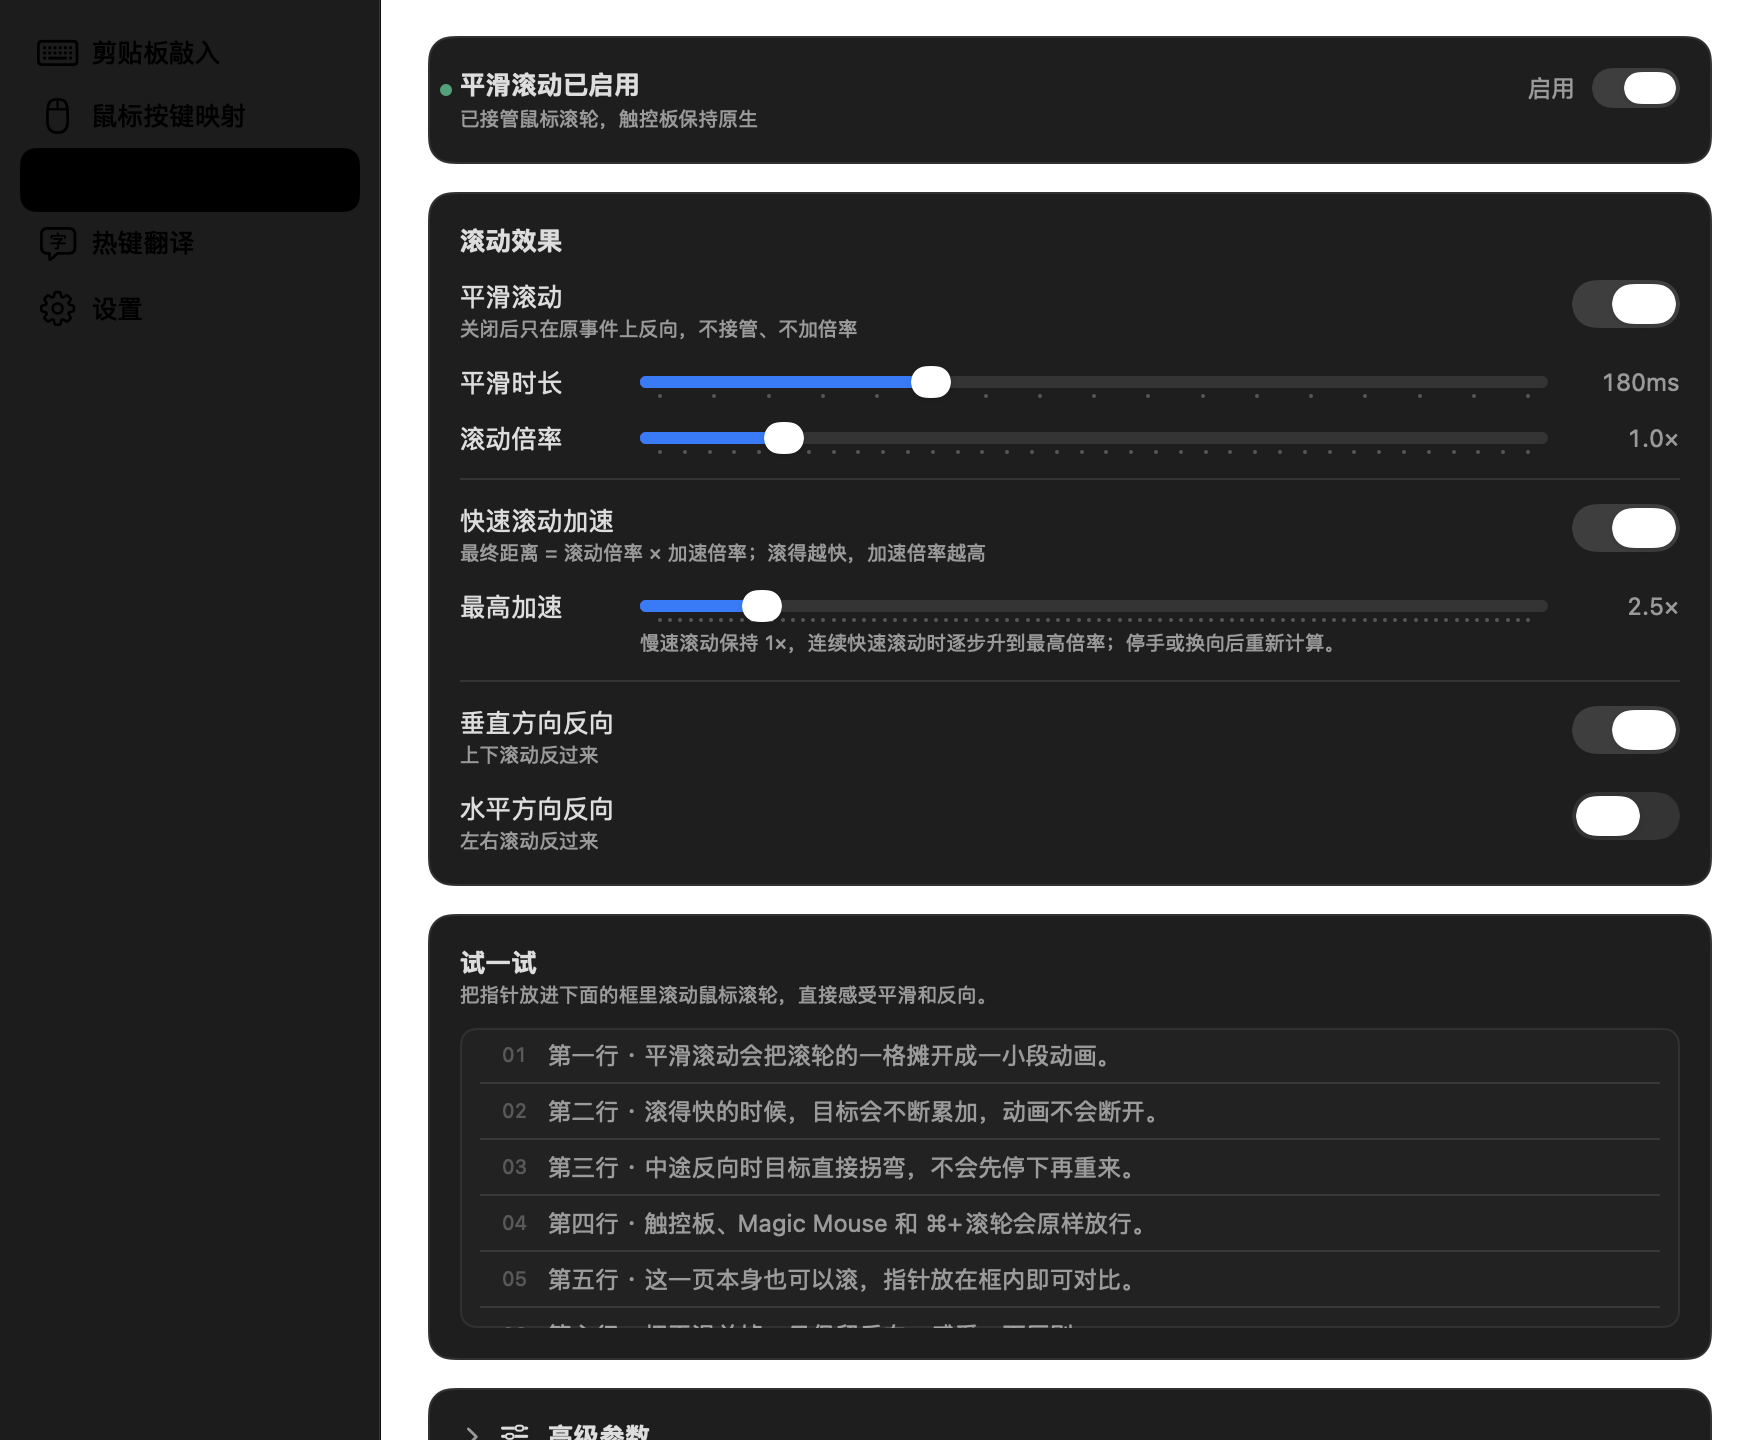
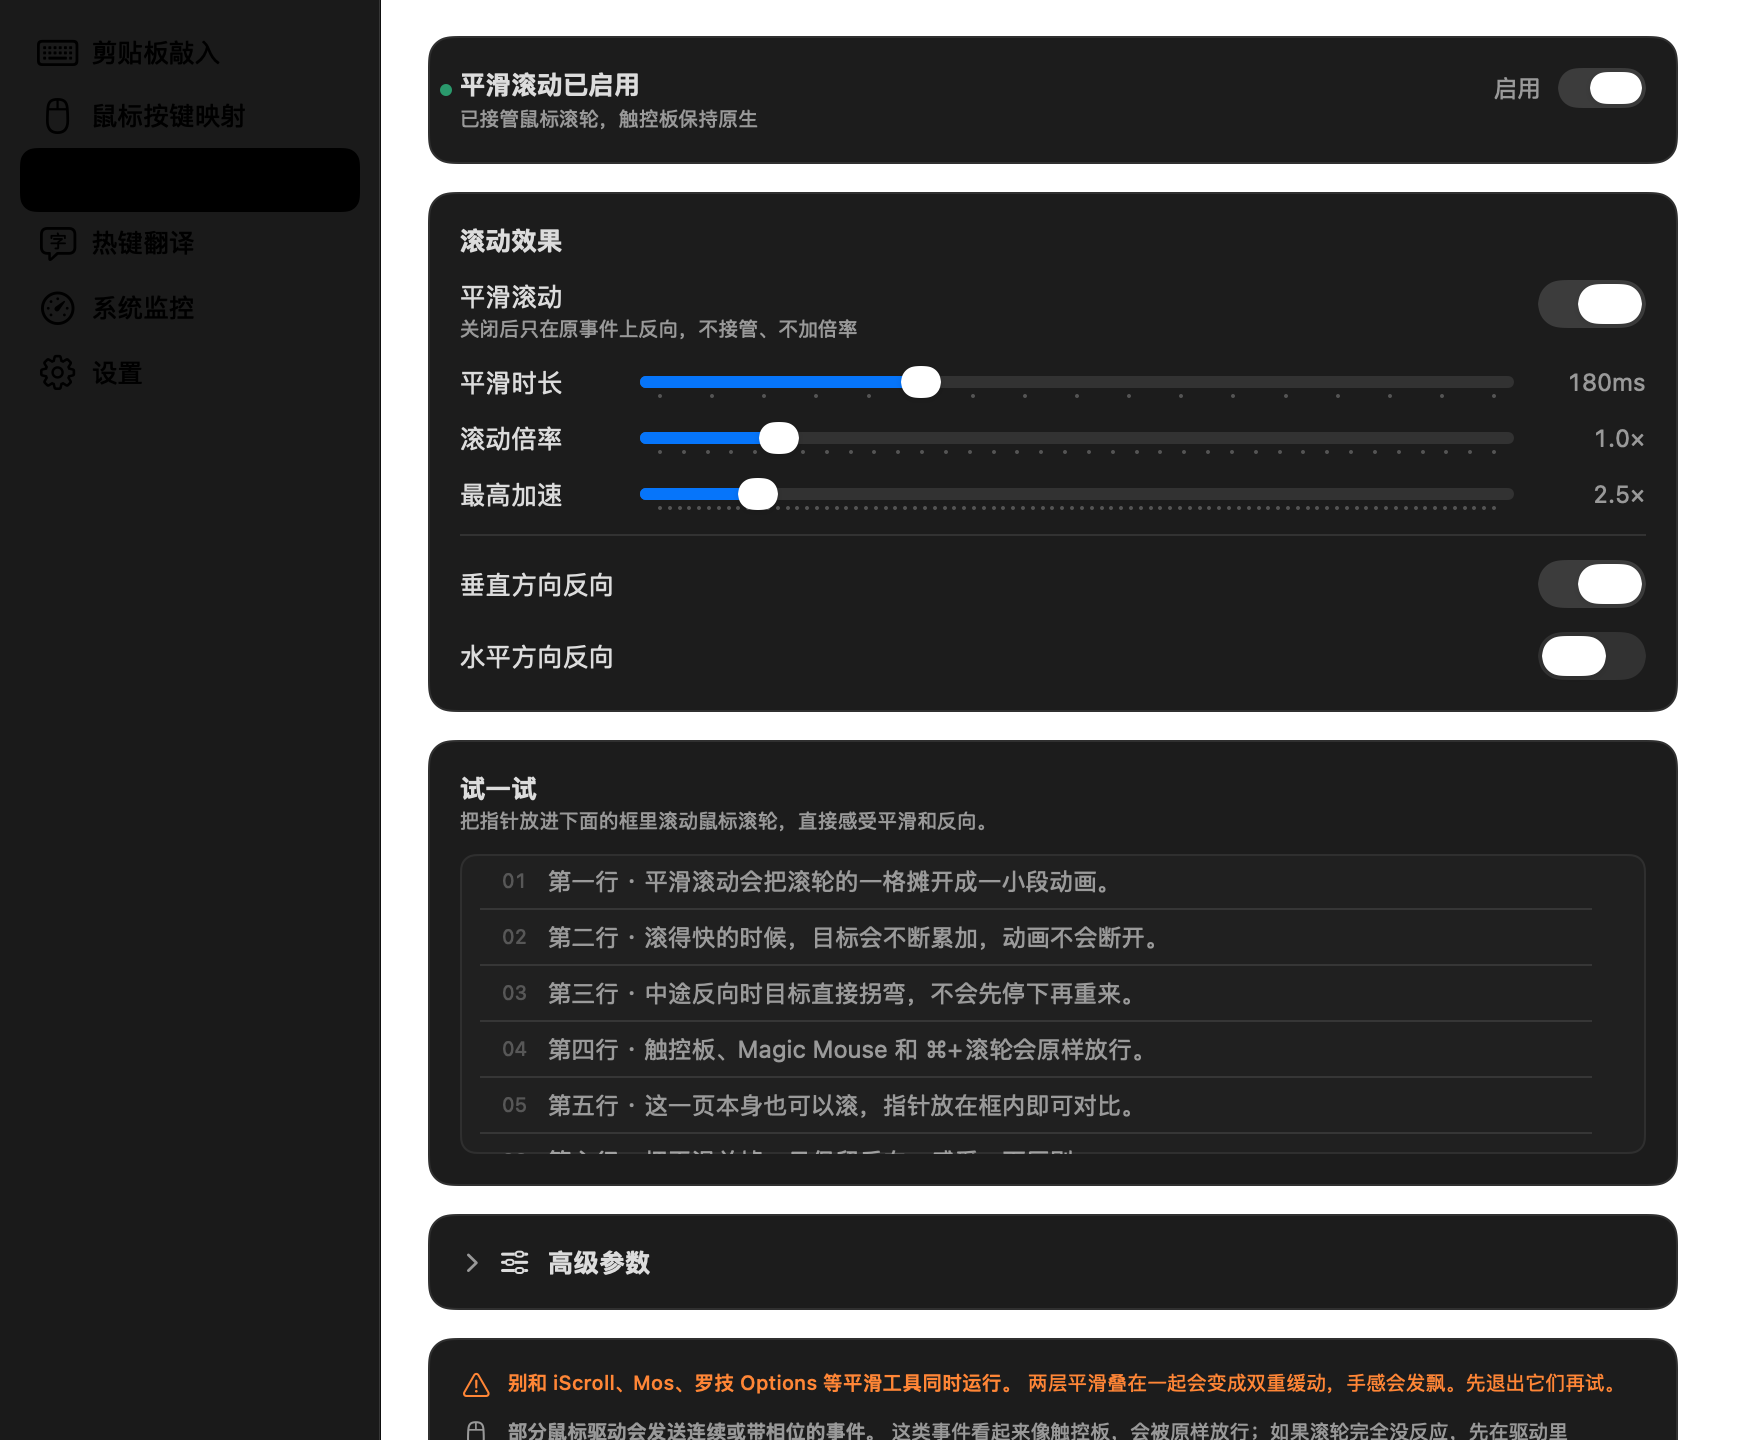
release: 1.1.0

Changed region(s): [[0.2188, 0.0, 1.0, 1.0], [0.0312, 0.25, 0.0938, 0.2812]]

diff --git a/Sources/UI/MonitorView.swift b/Sources/UI/MonitorView.swift
@@ -159,7 +159,7 @@ struct MonitorView: View {
             previewLine(top)
             previewLine(bottom)
         }
-        .padding(.leading, 7)
+        .padding(.horizontal, 2)
         .frame(width: width, height: 26, alignment: .leading)
         .background(
             RoundedRectangle(cornerRadius: 5, style: .continuous)

diff --git a/AGENTS.md b/AGENTS.md
@@ -4,10 +4,10 @@
 
 ## 当前状态
 
-- 当前版本：`1.0.0`（build `5`），GitHub Release `v1.0.0` 已发布。
[1 lines of base64/hex data omitted]
+- 当前版本：`1.1.0`（build `6`），发布标签 `v1.1.0`。
[1 lines of base64/hex data omitted]
 - 本机安装位置：`/Applications/MacExpert.app`。
-- 单元测试：`./build.sh test`，当前 **352 项检查**。
+- 单元测试：`./build.sh test`，当前 **429 项检查**。
 - 发布包是自签、未公证的；`spctl` 拒绝是预期行为，不要为了过 Gatekeeper 去改签名流程，除非用户明确要求产品化。
 
 ## 硬约束
@@ -67,6 +67,10 @@
 │   │   │   ├── ScrollAcceleration.swift       # 速度加速曲线
 │   │   │   ├── ScrollTap.swift                # 滚轮 CGEventTap
 │   │   │   └── ScrollPoster.swift             # 合成像素滚轮事件
+│   │   ├── Monitor/
+│   │   │   ├── MonitorFeature.swift
+│   │   │   ├── MonitorFeature+Module.swift
+│   │   │   └── MonitorMetrics.swift
 │   │   └── Translation/
 │   │       ├── TranslationFeature.swift       # 面板状态、请求生命周期
 │   │       ├── TranslationFeature+Module.swift
@@ -82,6 +86,8 @@
 │   │   ├── NativeSidebarSplit.swift   # NSSplitViewController 原生侧栏
 │   │   ├── WindowActivator.swift      # 窗口出现时切 .regular，关闭后回 .accessory
 │   │   ├── MenuBarMenu.swift          # 菜单栏原生菜单
+│   │   ├── MonitorStatusItems.swift   # 两个双行 NSStatusItem
+│   │   ├── MonitorView.swift          # 系统监控页
 │   │   ├── PageComponents.swift       # 功能页共用卡片/分区
 │   │   ├── Theme.swift                # 设计令牌、卡片、键帽、徽章
 │   │   ├── TypeClipView.swift
@@ -103,13 +109,14 @@
 │   └── setup-dev-signing.sh # 创建并信任本机自签证书
 └── Docs/
     ├── RELEASE_NOTES-1.0.0.md
+    ├── RELEASE_NOTES-1.1.0.md
     ├── key-mapping-product-spec.md
     └── images/              # README 产品截图
 ```
 
 ## 架构
 
-- `Feature` 枚举定义四个功能页；`FeatureRegistry.modules` 是唯一模块清单。新增功能：
+- `Feature` 枚举定义五个功能页；`FeatureRegistry.modules` 是唯一模块清单。新增功能：
   1. 在 `Feature` 加 case 和标题/图标；
   2. 实现 `FeatureModule`（状态、热键、生命周期）；
   3. 注册到 `FeatureRegistry.modules`；
@@ -146,6 +153,14 @@
 - 合成事件带固定标记；tap 看到自己的事件必须放行，避免自激。
 - 平滑关闭时直接修改原事件字段并放行，不吞事件、零延迟。
 
+### 系统监控（Monitor）
+
+- 两个独立 `NSStatusItem`：网络（上行/下行）与 CPU/GPU；固定长度改成按当前两行文字自动收紧。
+- 网络统计 primary interface 的 64 位字节计数；CPU 用 `host_statistics(HOST_CPU_LOAD_INFO)`；GPU 读 IOAccelerator 的 `Device Utilization %`，回退 `Renderer Utilization %`。
+- CPU/GPU 显示值 80% 起黄色、100% 红色；数值四舍五入后再判阈值。
+- 菜单栏文字 9.5pt 常规字重、等宽数字、10pt 行距；宽度按最长一行计算，左右各留 2pt。
+- 不申请辅助功能权限；菜单栏空间不足时系统可能隐藏图标，这属于系统行为。
+
 ### 热键翻译
 
 - `⌥Space` 呼出面板；短文本/单词走向词典，长文本走翻译。分类逻辑在 `TranslationClassifier`。
@@ -176,7 +191,7 @@
 2. 更新 `Docs/RELEASE_NOTES-<版本>.md`（功能、安装、已知限制、SHA-256 占位）。
 3. 运行 `./build.sh test`，确认检查数。
 4. 运行 `./make-dmg.sh`，得到 `build/release/MacExpert-<版本>.dmg`，记录 SHA-256。
-5. 把 SHA-256 写回发布说明。
+5. 把 SHA-256 写回发布说明和 AGENTS.md。
 6. 从 `main` 建 release 分支，提交；`git fetch origin` 后 rebase `origin/main`。
 7. 推送分支，创建到 `main` 的 PR；合并必须走 PR，不直接推 `main`。
 8. 在合并提交上打 annotated tag `v<版本>`，推送 tag。
@@ -198,5 +213,5 @@
 
 - 产品说明：`README.md`
 - 键映射详细规格：`Docs/key-mapping-product-spec.md`
-- 当前版本发布说明：`Docs/RELEASE_NOTES-1.0.0.md`
+- 当前版本发布说明：`Docs/RELEASE_NOTES-1.1.0.md`
 - 签名脚本：`Scripts/setup-dev-signing.sh`

diff --git a/Docs/RELEASE_NOTES-1.1.0.md b/Docs/RELEASE_NOTES-1.1.0.md
@@ -1,0 +1,41 @@
+# MacExpert 1.1.0
+
+新增系统监控，并把菜单栏和滚动设置收紧了一轮。
+
+## 主要功能
+
+- **系统监控**：菜单栏新增两个双行图标，分别显示上行/下行网速和 CPU/GPU 利用率。网速按系统主接口统计，GPU 只读取 IOAccelerator 暴露的利用率。
+- **占用着色**：CPU/GPU 低于 80% 保持常规颜色，80% 起变黄，显示到 100% 变红。
+- **采样间隔**：可在 1 秒、2 秒、5 秒之间切换；菜单栏和监控页共用同一个频率。
+- **菜单栏排版**：监控项文字对齐 MenuMeters 的 9.5pt 常规字重，宽度随数值自动收紧，数字使用等宽字形避免抖动。
+- **平滑滚动**：加速并入「滚动效果」并默认开启，移除多余开关和说明；平滑时长、滚动倍率、最高加速仍在同一张卡片里调整。
+- **菜单栏菜单**：「打开主窗口」移到最上方，移除菜单栏里的「检查更新…」入口；检查更新仍在设置页「关于」里。
+- **权限**：系统监控只读系统计数器，不需要辅助功能权限，也不需要 root。
+
+## 安装
+
+要求：macOS 15 或更高版本，Apple 芯片。
+
+1. 下载 `MacExpert-1.1.0.dmg`，打开后把 `MacExpert.app` 拖进「应用程序」。
+2. **首次打开请右键 →「打开」**。这个包用本机自签证书签名，没有经过 Apple 公证，直接双击会被 Gatekeeper 拦下；在「系统设置 → 隐私与安全性」里点「仍要打开」也可以。
+3. 按提示到「系统设置 → 隐私与安全性 → 辅助功能」开启 MacExpert。敲入、鼠标映射和滚动接管都依赖这个权限；系统监控不需要。
+4. 从菜单栏打开主窗口，按需开启各模块。
+
+## 已知限制
+
+- 发布包未公证、未做 DMG 签名；这是当前自用分发的预期状态。
+- 翻译需要兼容 OpenAI Chat Completions 的服务地址、模型名和 API Key。Key 保存在 `~/Library/Application Support/MacExpert/translation.key`，目录权限 0700、文件 0600，是当前用户可读的明文文件。
+- 鼠标映射到 `⌃←` / `⌃→` 这类系统保留快捷键时，macOS 的合成事件支持不稳定；如果经常失效，建议把系统「左/右切换桌面」改成 `⌃1` / `⌃2`，再映射到对应组合。
+- GPU 利用率依赖显卡驱动通过 IOAccelerator 暴露 `Device Utilization %` 或 `Renderer Utilization %`；驱动不提供时菜单栏显示 `--`。
+- 菜单栏空间不足时，系统可能把新图标放进隐藏区；先退出不用的菜单栏工具或腾出位置。
+- 检查更新只查询 GitHub 正式 Release；不会自动下载或替换应用。
+
+## 质量与构建
+
+- `./build.sh test`：429 项纯逻辑检查通过。
+- 发布构建固定最低 macOS 15、arm64，并从二进制中移除全部开发/诊断入口。
+- 构建只需要 Xcode Command Line Tools。
+
+## 校验
+
[1 lines of base64/hex data omitted]

diff --git a/README.md b/README.md
@@ -1,8 +1,8 @@
 # MacExpert
 
-MacExpert 是一个常驻 macOS 菜单栏的小工具集，把四件日常小事放进同一个窗口：把剪贴板文字敲进远程桌面、把鼠标侧键变成快捷键、让滚轮滚得更顺手，以及按 `⌥Space` 快速翻译。
+MacExpert 是一个常驻 macOS 菜单栏的小工具集，把五件日常小事放进同一个窗口：把剪贴板文字敲进远程桌面、把鼠标侧键变成快捷键、让滚轮滚得更顺手、按 `⌥Space` 快速翻译，以及在菜单栏盯住网速和 CPU / GPU。
 
-当前版本 **1.0.0** · [下载](https://github.com/LuohaoSun/MacExpert/releases/latest) · [发布说明](Docs/RELEASE_NOTES-1.0.0.md)
+当前版本 **1.1.0** · [下载](https://github.com/LuohaoSun/MacExpert/releases/latest) · [发布说明](Docs/RELEASE_NOTES-1.1.0.md)
 
 ## 剪贴板敲入
 
@@ -46,11 +46,23 @@ MacExpert 是一个常驻 macOS 菜单栏的小工具集，把四件日常小事
 - 兼容 OpenAI Chat Completions 接口，可以填写自己的服务地址、模型和 API Key。
 - API Key 只保存在本机应用支持目录，应用日志不记录 Key，也不记录你输入的文本。
 
+## 系统监控
+
+菜单栏用两个双行图标显示实时网速和 CPU / GPU 利用率，不用再装 MenuMeters 一类工具。
+
+<img src="Docs/images/system-monitor.png" width="860" alt="MacExpert 系统监控界面">
+
+- 网络图标上行、下行各占一行；CPU / GPU 图标分别显示两个利用率。
+- 利用率低于 80% 保持常规颜色，80% 起变黄，显示到 100% 变红。
+- 采样间隔可选 1、2、5 秒；网速按系统主接口统计。
+- GPU 只读取 IOAccelerator 暴露的利用率，不读取温度、功耗或频率。
+- 只读系统计数器，不需要辅助功能权限。
+
 ## 菜单栏
 
-菜单栏只保留模块开关、「打开主窗口」、「检查更新…」和「退出」。主窗口打开时会临时显示 Dock 图标和 App 菜单，关闭后回到纯菜单栏状态，不占 Dock。
+菜单栏只保留「打开主窗口」、各模块开关和「退出」。主窗口打开时会临时显示 Dock 图标和 App 菜单，关闭后回到纯菜单栏状态，不占 Dock。
 
-「检查更新…」会查询 GitHub Releases 的最新正式版；发现新版本时打开对应发布页，不自动下载或安装。
+「打开主窗口」在菜单最上方。检查更新放在设置页的「关于」卡片里，只查询 GitHub Releases 的最新正式版，不自动下载或安装。
 
 ## 安装
 
